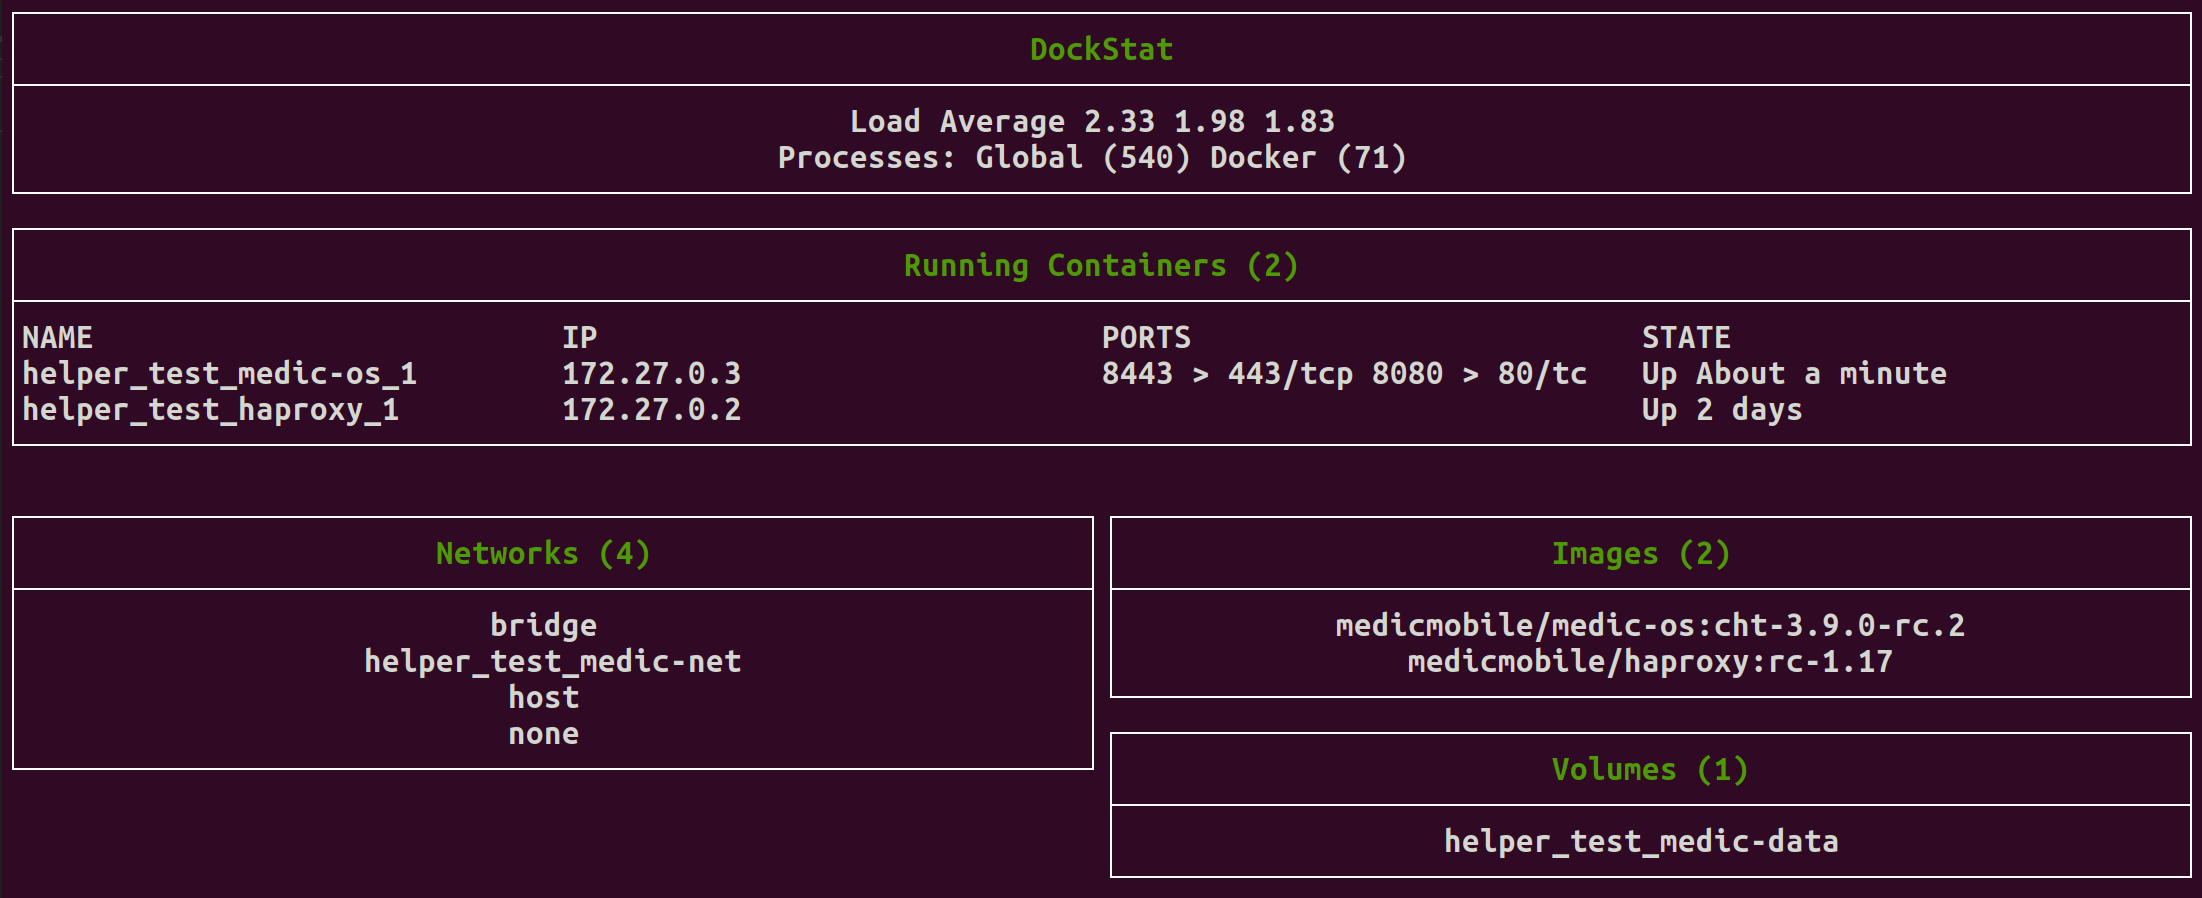
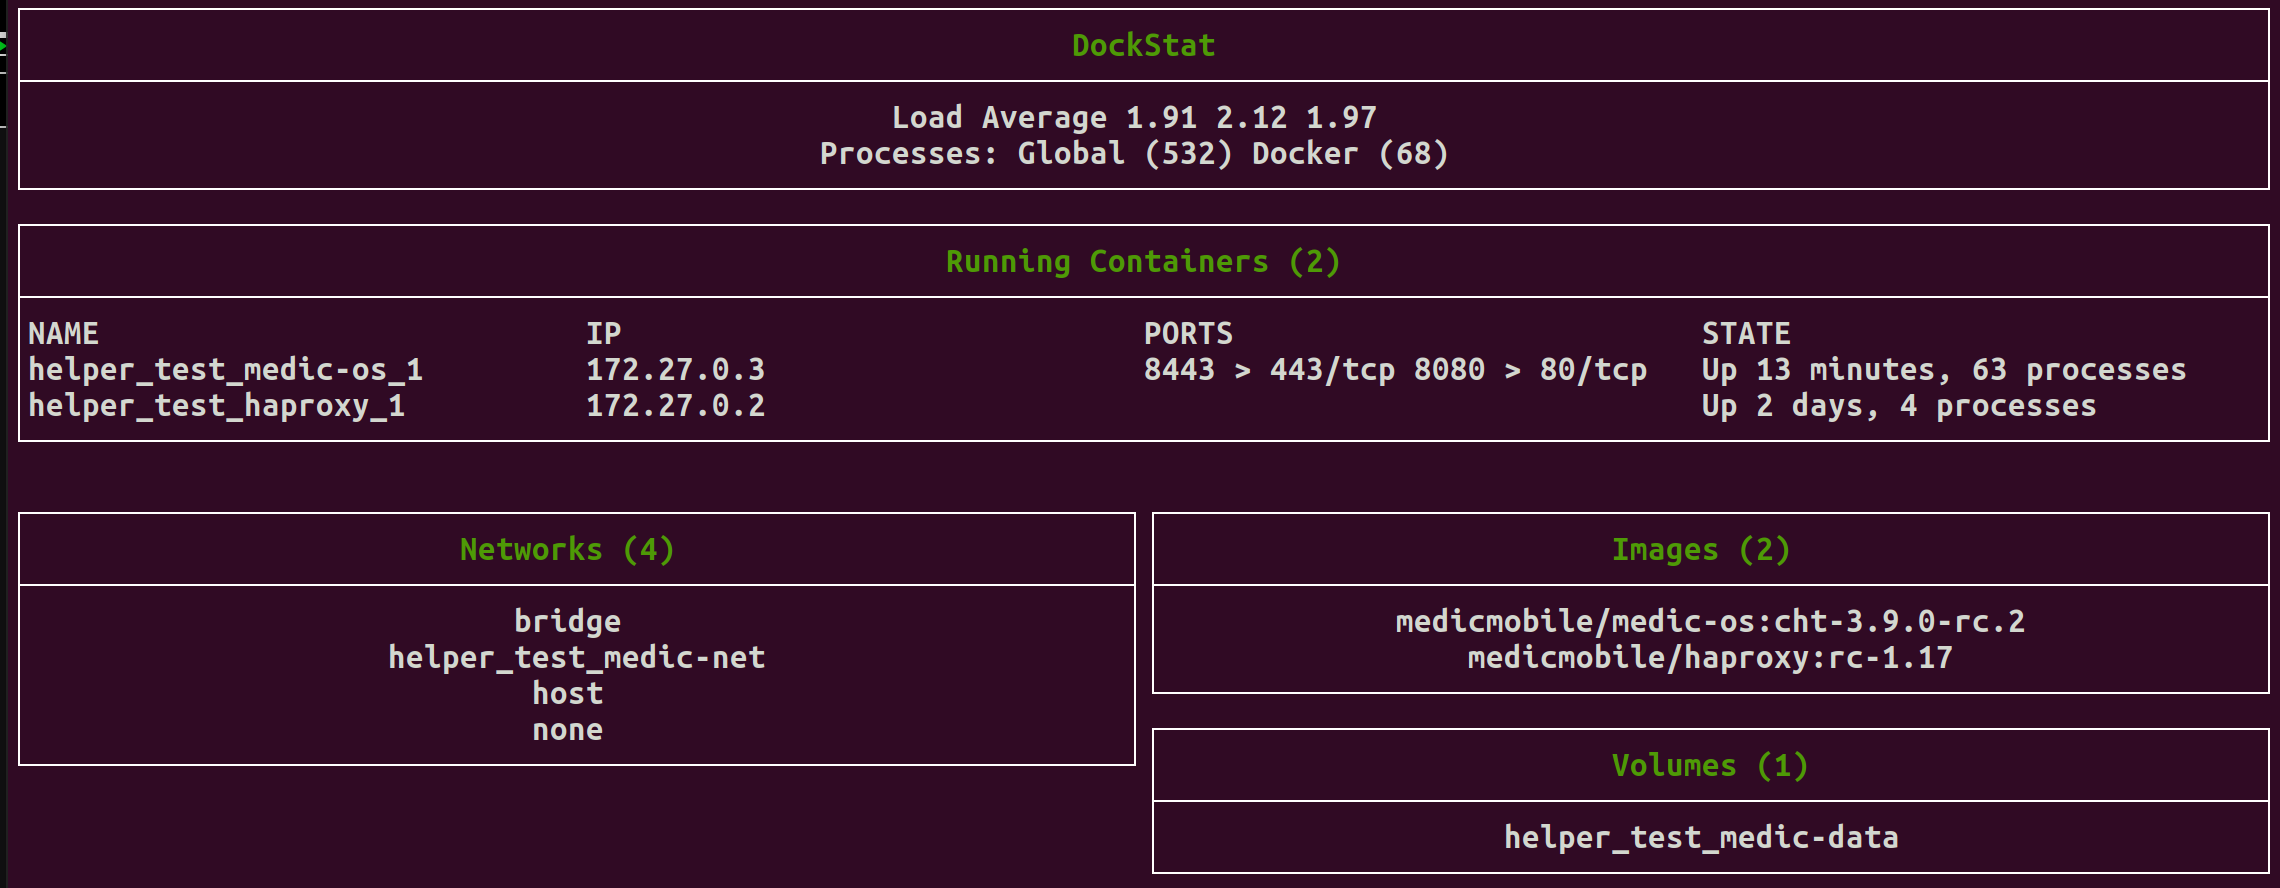
add table in readme of stats shown, add per container ps count, code formatting

diff --git a/readme.md b/readme.md
@@ -16,3 +16,20 @@ To use DockStat:
 1. Clone this repo
 1. `cd` into this repo
 1. Run `./DockStat.sh`
+
+This should run on any OS, but has only been tested on Ubuntu.
+
+## Stats Shown
+
+DockStat will list:
+* Host load average
+* Host total processes
+* Host total Docker processes
+* Per container table showing:
+    * Name
+    * Docker IP
+    * Ports mapped
+    * Up time with process count
+* Docker networks
+* Docker volumes
+* Docker images
